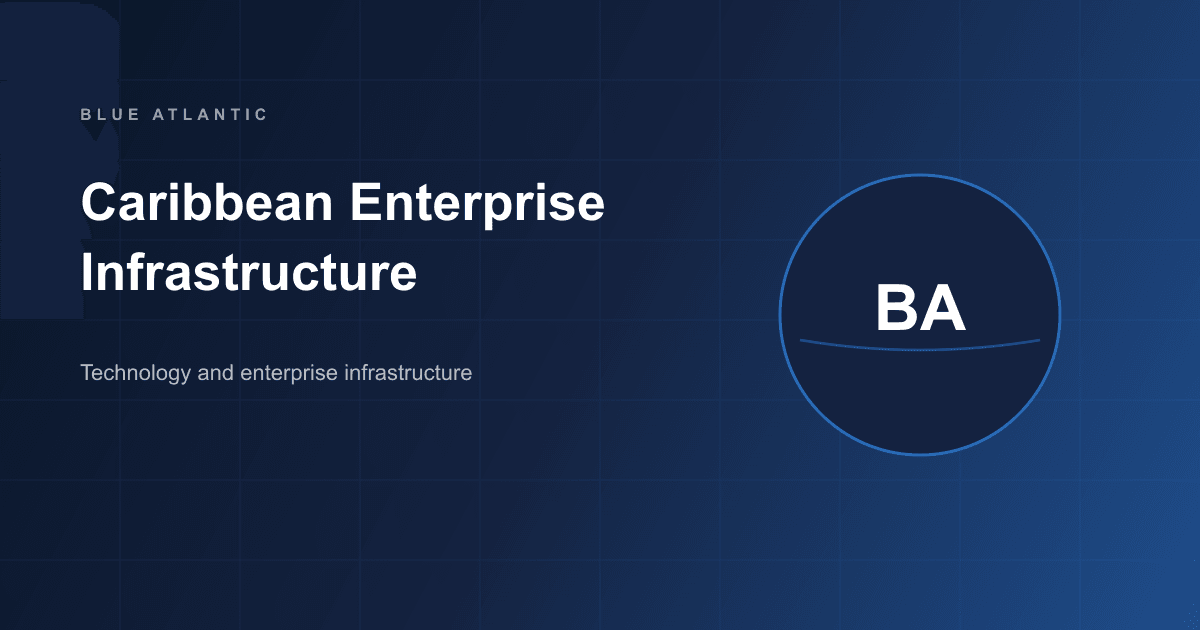
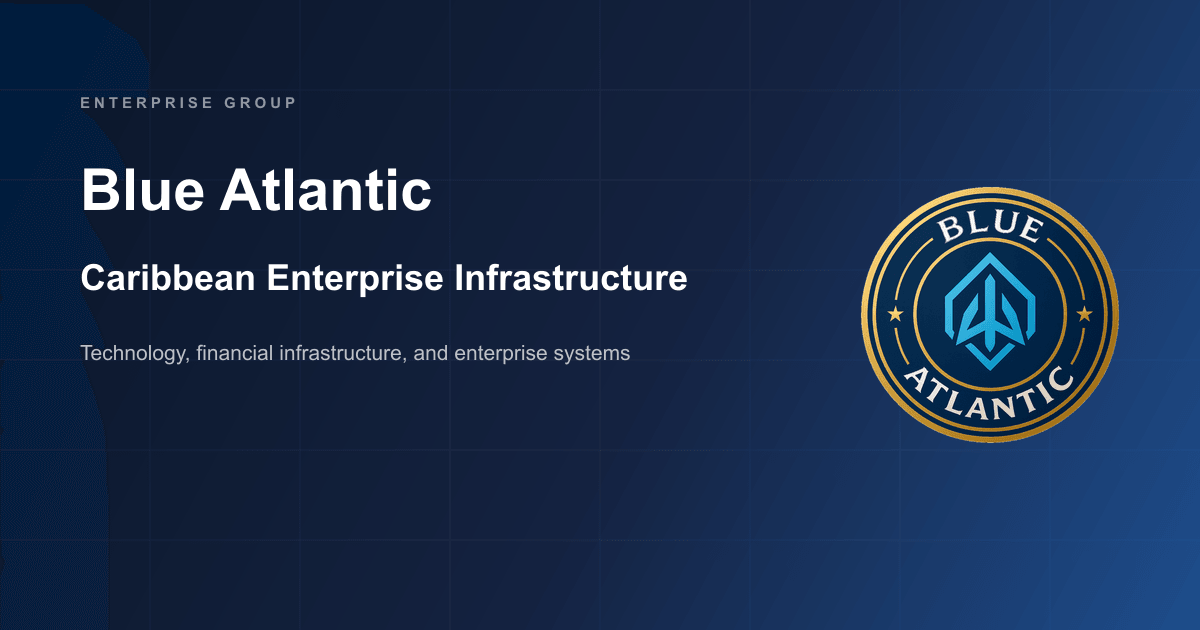
BA-W-004: finalize Blue Atlantic launch QA and SEO polish

diff --git a/app/sitemap.ts b/app/sitemap.ts
@@ -1,0 +1,22 @@
+import type { MetadataRoute } from "next";
+import { siteConfig } from "@/lib/site";
+
+const routes = [
+  "/",
+  "/about",
+  "/companies",
+  "/technology",
+  "/capital",
+  "/newsroom",
+  "/contact",
+  "/legal",
+] as const;
+
+export default function sitemap(): MetadataRoute.Sitemap {
+  return routes.map((route) => ({
+    url: route === "/" ? siteConfig.url : `${siteConfig.url}${route}`,
+    lastModified: new Date(),
+    changeFrequency: "monthly",
+    priority: route === "/" ? 1 : 0.8,
+  }));
+}

diff --git a/app/layout.tsx b/app/layout.tsx
@@ -26,6 +26,16 @@ export const metadata: Metadata = {
   keywords: [...siteConfig.keywords],
   authors: [{ name: siteConfig.name }],
   creator: siteConfig.name,
+  publisher: siteConfig.name,
+  category: "business",
+  robots: {
+    index: true,
+    follow: true,
+  },
+  icons: {
+    icon: [{ url: "/icon.png", type: "image/png", sizes: "32x32" }],
+    apple: [{ url: "/apple-icon.png", type: "image/png", sizes: "180x180" }],
+  },
   openGraph: {
     type: "website",
     locale: "en_US",
@@ -62,7 +72,9 @@ export default function RootLayout({
     >
       <body className="flex min-h-full flex-col bg-white text-brand-navy">
         <GlobalNavigation />
-        <main className="flex-1">{children}</main>
+        <main id="main-content" className="flex-1">
+          {children}
+        </main>
         <GlobalFooter />
       </body>
     </html>

diff --git a/app/robots.ts b/app/robots.ts
@@ -1,0 +1,12 @@
+import type { MetadataRoute } from "next";
+import { siteConfig } from "@/lib/site";
+
+export default function robots(): MetadataRoute.Robots {
+  return {
+    rules: {
+      userAgent: "*",
+      allow: "/",
+    },
+    sitemap: `${siteConfig.url}/sitemap.xml`,
+  };
+}

diff --git a/app/globals.css b/app/globals.css
@@ -60,6 +60,17 @@ body {
   font-family: var(--font-geist-sans), system-ui, sans-serif;
 }
 
+:focus-visible {
+  outline: 2px solid var(--brand-atlantic-light);
+  outline-offset: 2px;
+}
+
+a:focus-visible,
+button:focus-visible {
+  outline: 2px solid var(--brand-atlantic-light);
+  outline-offset: 2px;
+}
+
 main {
   scroll-margin-top: 4.5rem;
 }

diff --git a/components/GlobalNavigation.tsx b/components/GlobalNavigation.tsx
@@ -20,7 +20,7 @@ export default function GlobalNavigation() {
   return (
     <header className="sticky top-0 z-50 border-b border-brand-border/80 bg-white/95 backdrop-blur-md">
       <nav className="mx-auto flex max-w-6xl items-center justify-between px-6 py-3.5 md:px-8 md:py-4">
-        <Link href="/" className="transition-opacity hover:opacity-80">
+        <Link href="/" className="rounded-lg transition-opacity hover:opacity-80 focus-visible:outline-none focus-visible:ring-2 focus-visible:ring-brand-atlantic-light focus-visible:ring-offset-2" aria-label="Blue Atlantic home">
           <BrandLogo variant="nav" />
         </Link>
 
@@ -34,7 +34,7 @@ export default function GlobalNavigation() {
               <li key={link.href}>
                 <Link
                   href={link.href}
-                  className={`rounded-lg px-3.5 py-2 text-sm font-medium transition-colors ${
+                  className={`rounded-lg px-3.5 py-2 text-sm font-medium transition-colors focus-visible:outline-none focus-visible:ring-2 focus-visible:ring-brand-atlantic-light focus-visible:ring-offset-2 ${
                     isActive
                       ? "bg-brand-soft text-brand-navy"
                       : "text-brand-muted hover:bg-brand-soft/60 hover:text-brand-navy"
@@ -57,7 +57,7 @@ export default function GlobalNavigation() {
           <button
             type="button"
             onClick={() => setMenuOpen(!menuOpen)}
-            className="flex h-10 w-10 items-center justify-center rounded-lg border border-brand-border text-brand-navy transition-colors hover:bg-brand-soft"
+            className="flex h-10 w-10 items-center justify-center rounded-lg border border-brand-border text-brand-navy transition-colors hover:bg-brand-soft focus-visible:outline-none focus-visible:ring-2 focus-visible:ring-brand-atlantic-light focus-visible:ring-offset-2"
             aria-expanded={menuOpen}
             aria-label={menuOpen ? "Close menu" : "Open menu"}
           >
@@ -87,7 +87,7 @@ export default function GlobalNavigation() {
                   <Link
                     href={link.href}
                     onClick={() => setMenuOpen(false)}
-                    className={`block rounded-lg px-3 py-3 text-sm font-medium transition-colors ${
+                    className={`block rounded-lg px-3 py-3 text-sm font-medium transition-colors focus-visible:outline-none focus-visible:ring-2 focus-visible:ring-brand-atlantic-light focus-visible:ring-offset-2 ${
                       isActive
                         ? "bg-brand-soft text-brand-navy"
                         : "text-brand-muted hover:bg-brand-soft/60 hover:text-brand-navy"

diff --git a/components/Button.tsx b/components/Button.tsx
@@ -36,7 +36,7 @@ export default function Button({
   return (
     <Link
       href={href}
-      className={`inline-flex items-center justify-center rounded-xl font-medium transition-all duration-200 hover:-translate-y-px ${variantStyles[variant]} ${sizeStyles[size]} ${className}`}
+      className={`inline-flex items-center justify-center rounded-xl font-medium transition-all duration-200 hover:-translate-y-px focus-visible:outline-none focus-visible:ring-2 focus-visible:ring-brand-atlantic-light focus-visible:ring-offset-2 ${variantStyles[variant]} ${sizeStyles[size]} ${className}`}
     >
       {children}
     </Link>

diff --git a/lib/brand.ts b/lib/brand.ts
@@ -22,7 +22,7 @@ export const brandSealSizes: Record<
   BrandSealSize,
   { dimension: number; className: string }
 > = {
-  nav: { dimension: 36, className: "h-9 w-9" },
+  nav: { dimension: 40, className: "h-10 w-10" },
   footer: { dimension: 48, className: "h-12 w-12" },
   sm: { dimension: 64, className: "h-16 w-16" },
   md: { dimension: 96, className: "h-24 w-24" },

diff --git a/lib/site.ts b/lib/site.ts
@@ -3,7 +3,7 @@ export const siteConfig = {
   title: "Blue Atlantic | Caribbean Enterprise Infrastructure",
   tagline: "Building modern enterprise infrastructure for the Caribbean and beyond.",
   description:
-    "Blue Atlantic is a Caribbean-born enterprise group building modern technology, financial infrastructure, workforce platforms, and intelligence systems for long-term regional development and global-standard execution.",
+    "Blue Atlantic is a Caribbean-born enterprise group developing technology, financial infrastructure, workforce platforms, and intelligence systems with disciplined execution and global standards.",
   footerDescription:
     "A Caribbean-born enterprise group building technology, financial infrastructure, workforce platforms, and intelligence systems with disciplined execution and long-term institutional purpose.",
   keywords: [

diff --git a/docs/BLUE_ATLANTIC_LAUNCH_QA.md b/docs/BLUE_ATLANTIC_LAUNCH_QA.md
@@ -1,0 +1,162 @@
+# Blue Atlantic Corporate Website — Launch QA and SEO Polish (BA-W-004)
+
+## Phase
+
+**BA-W-004:** Finalize Blue Atlantic launch QA and SEO polish
+
+**Prior phase:** BA-W-003D — Unify Blue Atlantic brand identity (`ac19e07`)
+
+## Purpose
+
+Perform final corporate QA, SEO, metadata, accessibility, responsive readiness, and launch polish without redesigning the site.
+
+## Routes Reviewed
+
+| Route | Status |
+|-------|--------|
+| `/` | Hero, pillars, ecosystem, Why Blue Atlantic, CTA verified |
+| `/about` | Story card, four sections, official seal confirmed |
+| `/companies` | Portfolio grid, metadata present |
+| `/technology` | Focus areas, disclaimer intact |
+| `/capital` | Informational disclaimer preserved |
+| `/newsroom` | Intentional future-facing placeholder |
+| `/contact` | Inquiry categories, no live form (by design) |
+| `/legal` | Expanded disclaimers intact |
+
+Additional static routes added: `/robots.txt`, `/sitemap.xml`
+
+## Brand Consistency Confirmation
+
+| Area | Logo | Status |
+|------|------|--------|
+| Navbar | Official seal via `BrandLogo` nav (40px) | Confirmed |
+| Footer | Official seal via `BrandLogo` footer (48px) | Confirmed |
+| Homepage panel | Official seal via `BrandLogo` panel | Confirmed |
+| About story card | Official seal via `BrandLogo` story | Confirmed |
+| Favicon | BA monogram (`app/icon.png`) | Appropriate at small size |
+| Public `BrandMark` usage | None in layout components | Confirmed |
+
+Navbar logo increased from 36px to 40px for improved readability while staying professional.
+
+## SEO / Metadata Updates
+
+### `app/layout.tsx`
+
+- Title default: `Blue Atlantic | Caribbean Enterprise Infrastructure`
+- Title template: `%s | Blue Atlantic`
+- Description updated in `lib/site.ts` to launch-ready SEO copy
+- Open Graph title, description, and image configured
+- Twitter `summary_large_image` card configured
+- Favicon and apple-touch icon metadata added
+- `robots: index, follow` configured
+- `metadataBase` set to `https://blueatlantic.com`
+- Main content landmark: `id="main-content"`
+
+### New static SEO routes
+
+- `app/robots.ts` — Allows crawling, references sitemap
+- `app/sitemap.ts` — All 8 public pages listed
+
+## OG Image Status
+
+**Updated.** Regenerated `public/brand/blue-atlantic-og.png` (1200×630):
+
+- Deep navy gradient background
+- Headline: Blue Atlantic
+- Supporting line: Caribbean Enterprise Infrastructure
+- Official company seal composited on the right
+- Removed old BA monogram from OG SVG base
+
+Generator: `npm run generate:og` → `scripts/generate-og-image.mjs`
+
+## Favicon / Icon Status
+
+| Asset | Status |
+|-------|--------|
+| `app/icon.png` | BA monogram (32px), readable at small size |
+| `app/apple-icon.png` | BA monogram (180px) |
+| Full seal in favicon | Not used (too detailed at tiny size) |
+
+No changes required. Monogram remains appropriate for browser tab icons.
+
+## Accessibility Checks
+
+| Check | Status |
+|-------|--------|
+| Logo alt text | `Blue Atlantic company logo` via `BrandSeal` |
+| Navbar home link | `aria-label="Blue Atlantic home"` |
+| Mobile menu button | `aria-expanded`, `aria-label` present |
+| Heading order | H1 in heroes, H2/H3 in sections |
+| Focus styles | Global `:focus-visible` and component ring styles added |
+| Main landmark | `main id="main-content"` added |
+| Text contrast | Navy/white and muted text on light surfaces maintained |
+
+## Responsive Checks
+
+| Breakpoint | Areas verified |
+|------------|----------------|
+| Mobile | Navbar menu, hero stacking, card grids, footer columns |
+| Tablet | Two-column grids, hero panel layout |
+| Desktop | Full nav, two-column hero with brand panel |
+
+No layout regressions introduced in this phase.
+
+## Copy Guardrail Search Results
+
+```powershell
+Select-String -Pattern "parent company"     # No matches
+Select-String -Pattern "—"                  # No matches
+Select-String -Pattern "–"                  # No matches
+Select-String -Pattern "guaranteed returns|FDIC|live trading"  # No matches
+```
+
+Terms appearing **only in legal/informational disclaimers** (acceptable):
+
+- `investment advice` — legal and capital disclaimers (protective)
+- `licensed bank` — legal disclaimer negation
+- `regulated investment manager` — legal disclaimer negation
+- `brokerage` — legal section title ("No banking or brokerage representation")
+
+## Validation Results
+
+### `npm run lint`
+
+**Status:** Passed (exit code 0)
+
+### `npm run build`
+
+**Status:** Passed (exit code 0)
+
+15 static routes generated including `/robots.txt` and `/sitemap.xml`.
+
+## Git Commit Hash
+
+```
+(Updated after commit)
+```
+
+Commit message: `BA-W-004: finalize Blue Atlantic launch QA and SEO polish`
+
+## Remaining Launch Notes
+
+1. **Domain:** Update `siteConfig.url` in `lib/site.ts` if production domain differs from `https://blueatlantic.com`.
+2. **Contact channels:** Contact page intentionally has no live form; publish official channels when ready.
+3. **Newsroom:** Placeholder is intentional; add posts when announcements are available.
+4. **OG/cache:** After deploy, validate social previews with platform debug tools if cached OG image persists.
+5. **Hard refresh:** Clear browser cache if pre-003D monogram appears locally.
+
+## Files Changed
+
+- `lib/site.ts` — Launch SEO description
+- `lib/brand.ts` — Navbar logo size 40px
+- `app/layout.tsx` — Full metadata, icons, robots, main landmark
+- `app/robots.ts` — New
+- `app/sitemap.ts` — New
+- `app/globals.css` — Focus-visible styles
+- `components/Button.tsx` — Focus ring
+- `components/GlobalNavigation.tsx` — Home aria-label, focus rings, 40px logo
+- `public/brand/blue-atlantic-og.svg` — Corporate OG base (no BA monogram)
+- `public/brand/blue-atlantic-og.png` — Regenerated with official seal
+- `scripts/generate-og-image.mjs` — New OG generator
+- `package.json` — Added `generate:og` script
+- `docs/BLUE_ATLANTIC_LAUNCH_QA.md` — This document